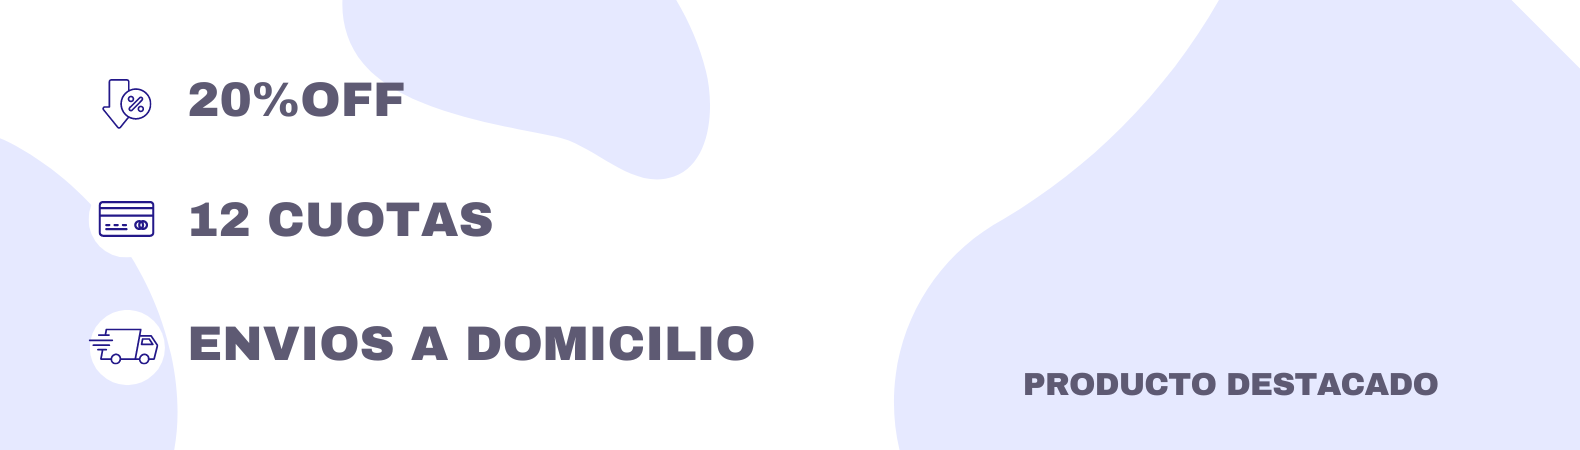
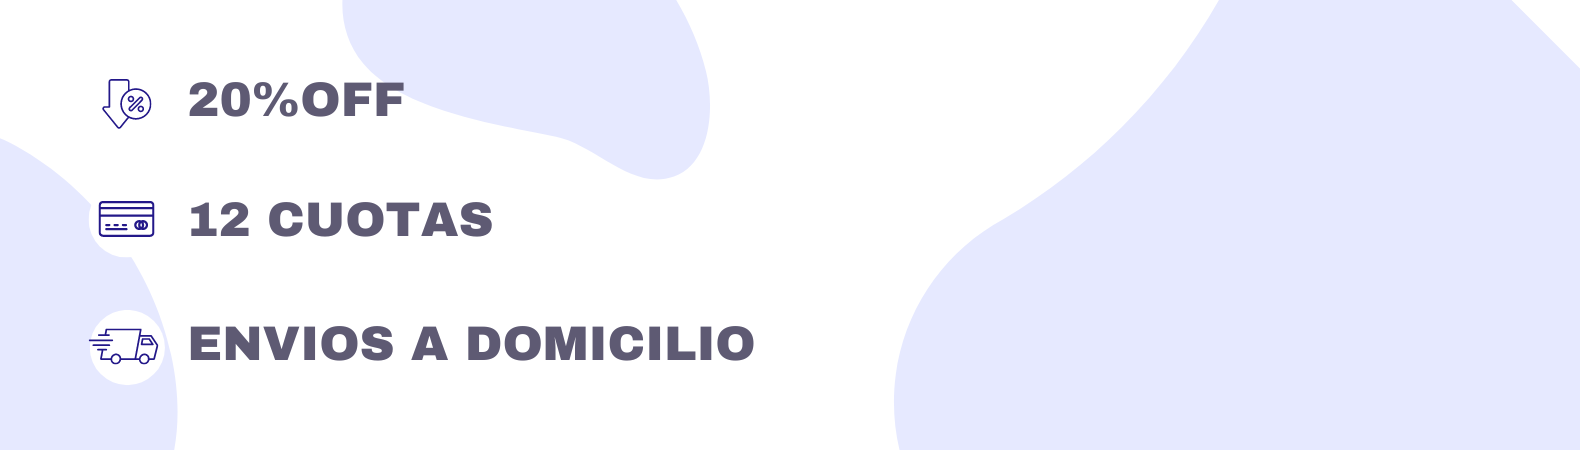
rse carga imagen de producto destacado en el slider

Changed region(s): [[0.6513, 0.8089, 0.9304, 0.9022]]

diff --git a/src/styles/slider.css b/src/styles/slider.css
@@ -1,24 +1,86 @@
 
 @media (max-width: 992px) {
-  .destacado{
-    width:50%;
+  .container-destacado {
+    display: flex;
+    flex-direction: column;
+    align-items: center;
+    width: 60%;
+    height: 60%;
     position: absolute;
-    top: 30%;
-    right: 25%;
+    top: 35%;
+    right: 20%;
     z-index: 1;
-} 
-}
+  }
 
+  .h1-destacado {
+    display: none;
+    font-weight: 900;
+    text-align: center;
+    font-size: 3vw;
+  }
 
-@media (min-width: 992px) { 
-  .destacado{
-    width:20%;
-    position: absolute;
-    top: 5%;
-    right: 13%;
-    z-index: 1;
+  .nombre-destacado {
+    font-weight: 900;
+    text-align: center;
+    font-size: 3vw;
+  }
+
+  .padre-destacado {
+    display: flex;
+    justify-content: center;
+    align-items: center;
+    overflow: hidden;
+    max-width: 100%;
+    height: auto;
+  }
+
+  .destacado {
+    object-fit: cover;
+    max-width: 400px;
+    width: 100%;
+    height: auto;
+    box-shadow: 2px 3px black;
   }
 }
 
+@media (min-width: 992px) {
+  .container-destacado {
+    display: flex;
+    flex-direction: column;
+    align-items: center;
+    position: absolute;
+    width: 45%;
+    max-height: 95%;
+    top: 3%;
+    right: 1%;
+    z-index: 1;
+  }
 
-/* @media (min-width: 1400px) { ... } */
+  .padre-destacado {
+    display: flex;
+    justify-content: center;
+    align-items: center;
+    overflow: hidden;
+    max-width: 100%;
+    height: auto;
+  }
+
+  .destacado {
+    object-fit: cover;
+    max-width: 300px;
+    width: 100%;
+    height: auto;
+  }
+
+  .h1-destacado {
+    font-weight: 900;
+    text-align: center;
+    font-size: 3vw;
+  }
+
+  .nombre-destacado {
+    font-weight: 900;
+    text-align: center;
+    font-size: 3vw;
+  }
+}

diff --git a/src/components/administracion/destacarProducto/ImagenDestacado.jsx b/src/components/administracion/destacarProducto/ImagenDestacado.jsx
@@ -1,0 +1,53 @@
+import React, { useEffect, useState } from 'react';
+import { ApiClient } from '../../api/services';
+import '../../../styles/slider.css';
+
+const ImagenDestacado = () => {
+  const [urlDestacada, setUrlDestacada] = useState(null);
+  const [nombreDestacada, setNombreDestacada] = useState(null);
+  const rutaLogo = "/assets/Marca_de_agua_2.png";
+  
+  useEffect(() => {
+    const fetchData = async () => {
+      const apiClient = new ApiClient();
+
+      try {
+        const response = await apiClient.getAllProducts();
+        const productos = response.data;
+        const productoDestacado = productos.find((producto) => producto.destacado === true);
+        
+        if (productoDestacado && productoDestacado.destacado) {
+          const url  = productoDestacado.imagenes;
+          const nombre = productoDestacado.nombre
+          setUrlDestacada(url);
+          setNombreDestacada(nombre)
+        }
+      } catch (error) {
+        console.log(error);
+      }
+    };
+
+    fetchData();
+  }, []);
+
+  return (
+    <div className="container-destacado">
+      
+      <h1 className='h1-destacado'>OFERTA EN :</h1>
+      
+      <div className='padre-destacado mx-auto'>
+        <img 
+        src={urlDestacada ? urlDestacada : rutaLogo} 
+        alt='producto destacado' 
+        className='destacado rounded-circle'
+      />
+      </div>
+
+      <h1 className='nombre-destacado'>{nombreDestacada? nombreDestacada.toUpperCase() : ""}</h1>
+    </div>
+      
+
+  );
+};
+
+export default ImagenDestacado;

diff --git a/src/components/administracion/ProductoPublicado/publicados.jsx b/src/components/administracion/ProductoPublicado/publicados.jsx
@@ -22,7 +22,7 @@ const Publicados = ({id,nombre}) => {
                   {disable: newCheckedValue}
               );
               setIsDisabled(newCheckedValue)
-              console.log(newCheckedValue);
+              
             } catch (error) {
                 alert(error);
             }
@@ -32,7 +32,7 @@ const Publicados = ({id,nombre}) => {
            const response = await axios.get(`${URL_PROD}${endpoints.getAllProducts}`);
            const productos = response.data;
             const producto = productos.find(producto => producto._id === id && producto.disable);
-            console.log(producto);
+            
             if(producto !== undefined) {
               setIsDisabled(prevChecked => producto.disable)
             } else{

diff --git a/src/components/navbar/OffCanvasCarrito.jsx b/src/components/navbar/OffCanvasCarrito.jsx
@@ -15,7 +15,7 @@ function OffCanvasCarrito() {
   const handleShow = () => setShow(true);
 
   const num = cartItems.length
-  console.log(num);
+
   // Calcular el total
   const calculateTotal = () => {
     const total = cartItems.reduce((accumulator, product) => {
@@ -41,7 +41,6 @@ function OffCanvasCarrito() {
       setCartItems(updatedCartItems);
     };
 
-    console.log(cartItems);
   return (
     <>
       <button onClick={handleShow} className="btn position-relative">

diff --git a/src/components/carrusel/Carrusel.jsx b/src/components/carrusel/Carrusel.jsx
@@ -1,5 +1,6 @@
 import React from 'react'
 import Carousel from 'react-bootstrap/Carousel';
+import ImagenDestacado from '../administracion/destacarProducto/ImagenDestacado';
 import ("../../styles/slider.css")
 
 
@@ -44,7 +45,7 @@ const Carrusel=()=> {
           />
         </Carousel.Item>
       </Carousel>
-      <img src="/assets/Marca_de_agua_2.png" alt="producto-destacado" className='img-fluid destacado'/>
+      <ImagenDestacado />
     </div>
 
   );

diff --git a/src/components/home/productos/Productos.jsx b/src/components/home/productos/Productos.jsx
@@ -33,7 +33,6 @@ const MostrarProductos = ({ productos, setProductos }) => {
   };
 
   useEffect(() => {
-    console.log("Carrito",cartItems);
   }, [cartItems]);
 
 
@@ -49,7 +48,7 @@ const MostrarProductos = ({ productos, setProductos }) => {
 
 
   useEffect(() => {
-    console.log("favorito",favoriteItems);
+    
   }, [favoriteItems]);
 
   const getProducts = async () => {
